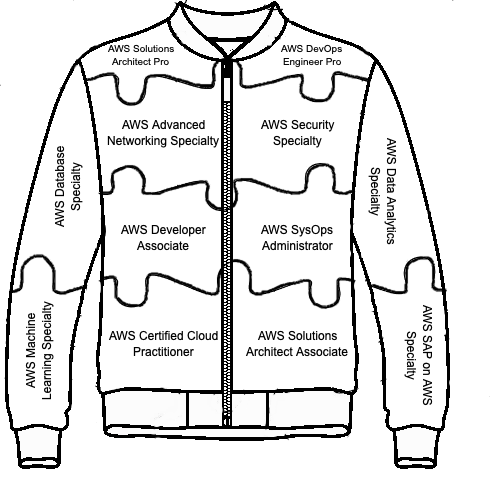
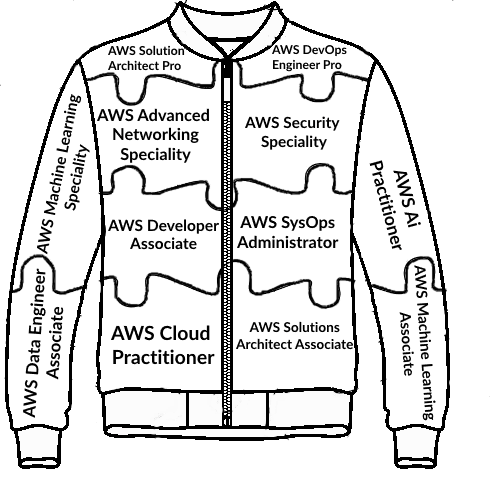
Fix Jacket to represent current options, updated help field.

diff --git a/cogs/jacket.py b/cogs/jacket.py
@@ -32,16 +32,16 @@ class Jacket(commands.Cog):
         jacket_pieces = [
             ((150, 50), ["SAP"]),
             ((300, 50), ["DOP"]),
-            ((70, 150), ["DBS"]),
+            ((70, 150), ["MLS"]),
             ((150, 150), ["ANS", "NETWORKING"]),
             ((300, 150), ["SCS"]),
-            ((380, 150), ["DAS"]),
+            ((380, 150), ["AIP"]),
             ((150, 250), ["DVA"]),
             ((300, 250), ["SOA"]),
-            ((30, 350), ["MLS"]),
+            ((30, 350), ["DEA"]),
             ((150, 350), ["CLF", "CCP"]),
             ((300, 350), ["SAA"]),
-            ((415, 350), ["PAS"]),
+            ((415, 350), ["MLA"]),
         ]
 
         certs = [cert.upper() for cert in certs]
@@ -82,11 +82,16 @@ class Jacket(commands.Cog):
     @commands.command()
     async def jacket(self, ctx: Context, *args):
         if len(args) < 1:
-            await ctx.send("Example: !jacket SAP DOP DBS ANS NETWORKING SCS DAS DVA SOA MLS CLF CCP SAA PAS ")
+            await ctx.send("Full Jacket: !jacket SAP DOP MLS ANS SCS AIP DVA SOA DEA CLF SAA MLA ")
             return
 
         if args[0].lower() == "help":
-            await ctx.send("Example: !jacket SAP DOP DBS ANS NETWORKING SCS DAS DVA SOA MLS CLF CCP SAA PAS ")
+            await ctx.send(
+            """```yaml
+SAP: - (Solutions Architect Pro) DOP: - (Devops Engineer Pro) MLS: - (Machine Learning Speciality) ANS/NETWORKING: - (Advanced Networking Speciality) SCS: -  (Security Specialist) AIP: - (Ai Practitioner)  DVA: - (Developer Associate) SOA: - (SysOps Administrator) DEA: - (Data Engineer Associate) CLF/CCP: - (Cloud Practitioner) SAA: - (Solutions Architect Associate) MLA: - (Machine Learning Associate)
+```
+            """.strip()
+        )
             return
 
         image_bytes = self.create_jacket(args)
